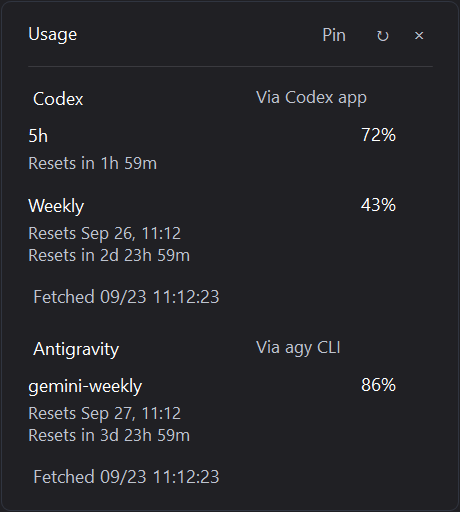
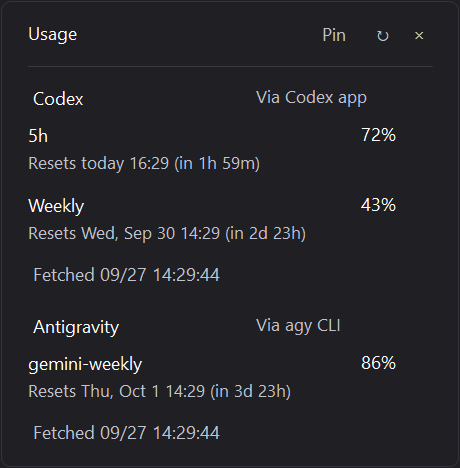
Show reset date, weekday and time left on one line
"4日 4時間 0分" alone was hard to read. Each quota now shows when it
resets (today / tomorrow / date with weekday) followed by the time left.

diff --git a/DetailsForm.cs b/DetailsForm.cs
@@ -163,10 +163,8 @@ internal sealed class DetailsForm : Form
         expanded = value;
         int missing = (codex.Quotas.Count == 0 ? 1 : 0) + (agy.Quotas.Count == 0 ? 1 : 0) + (claude != null && claude.Quotas.Count == 0 ? 1 : 0) + (grok != null && grok.Quotas.Count == 0 ? 1 : 0);
         int count = codex.Quotas.Count + agy.Quotas.Count + (claude?.Quotas.Count ?? 0) + (grok?.Quotas.Count ?? 0);
-        int datedCount = new[] { codex, agy, claude, grok }.Where(r => r != null).Cast<Reading>()
-            .Sum(r => r.Quotas.Count(q => FormatResetDate(q.Reset, DateTimeOffset.Now) != null));
         int expandedHeight = Math.Min(Screen.FromRectangle(Bounds).WorkingArea.Height - 24,
-            Math.Clamp(258 + 70 * count + 22 * datedCount + 20 * missing + (claude == null ? 0 : 50) + (grok == null ? 0 : 50), 300, 720));
+            Math.Clamp(258 + 70 * count + 20 * missing + (claude == null ? 0 : 50) + (grok == null ? 0 : 50), 300, 720));
         target = value ? new Size(460, expandedHeight) : new Size(344, 54);
         if (value) RebuildRows();
         ClientSize = target; ClampPosition();
@@ -232,7 +230,7 @@ internal sealed class DetailsForm : Form
             foreach (var quota in reading.Quotas)
             {
                 var row = new QuotaRow(quota, reading.Stale, color) { Location = new(4, y) };
-                row.Size = new Size(372, row.HasResetDate ? 87 : 65);
+                row.Size = new Size(372, 65);
                 list.Controls.Add(row); y += row.Height + 5;
             }
             if (reading.Quotas.Count > 0)
@@ -300,48 +298,43 @@ internal sealed class DetailsForm : Form
             get { var p = base.CreateParams; p.ExStyle |= 0x02000000; return p; }
         }
     }
-    internal static string FormatCountdown(TimeSpan? remain)
+    // One line per quota: the local reset date with weekday first, then the time left, e.g. "10月3日(土) 18:00 にリセット（あと6日3時間）".
+    internal static string FormatReset(DateTimeOffset? reset, DateTimeOffset now)
     {
-        if (remain == null) return L.T("リセット時刻不明");
-        if (remain <= TimeSpan.Zero) return L.T("リセット時刻経過 · 更新待ち");
-        var t = remain.Value;
-        return t.Days > 0
-            ? L.F("リセットまで {t.Days}日 {t.Hours}時間 {t.Minutes}分", ("t.Days", t.Days), ("t.Hours", t.Hours), ("t.Minutes", t.Minutes))
-            : L.F("リセットまで {t.Hours}時間 {t.Minutes}分", ("t.Hours", t.Hours), ("t.Minutes", t.Minutes));
+        if (reset == null) return L.T("リセット時刻不明");
+        var left = reset.Value - now;
+        if (left <= TimeSpan.Zero) return L.T("リセット時刻経過 · 更新待ち");
+        var at = reset.Value.ToLocalTime();
+        var today = now.ToLocalTime().Date;
+        var ja = System.Globalization.CultureInfo.GetCultureInfo("ja-JP");
+        var en = System.Globalization.CultureInfo.InvariantCulture;
+        string day = at.Date == today ? L.T("今日")
+            : at.Date == today.AddDays(1) ? L.T("明日")
+            : L.English ? at.ToString(at.Year == today.Year ? "ddd, MMM d" : "ddd, MMM d, yyyy", en)
+            : at.ToString(at.Year == today.Year ? "M月d日(ddd)" : "yyyy年M月d日(ddd)", ja);
+        return L.F("{day} {time} にリセット（あと{left}）", ("day", day), ("time", at.ToString("H:mm", en)), ("left", FormatRemaining(left)));
     }
-    internal static string? FormatResetDate(DateTimeOffset? reset, DateTimeOffset now)
-    {
-        if (reset == null || reset <= now) return null;
-        var localReset = reset.Value.ToLocalTime();
-        var localNow = now.ToLocalTime();
-        if (localReset.Date <= localNow.Date) return null;
-        var date = L.English
-            ? localReset.ToString(localReset.Year == localNow.Year ? "MMM d, HH:mm" : "MMM d, yyyy HH:mm", System.Globalization.CultureInfo.InvariantCulture)
-            : localReset.ToString(localReset.Year == localNow.Year ? "M月d日 HH:mm" : "yyyy年M月d日 HH:mm", System.Globalization.CultureInfo.GetCultureInfo("ja-JP"));
-        return L.F("リセット日 {date}", ("date", date));
-    }
+    internal static string FormatRemaining(TimeSpan t) =>
+        t.Days > 0 ? L.F("{d}日{h}時間", ("d", t.Days), ("h", t.Hours))
+        : t.Hours > 0 ? L.F("{h}時間{m}分", ("h", t.Hours), ("m", t.Minutes))
+        : L.F("{m}分", ("m", Math.Max(1, t.Minutes)));
     private sealed class QuotaRow : Control
     {
         private readonly Quota quota;
         private readonly bool stale;
         private readonly Color accent;
-        private string countdown;
-        private string? resetDate;
-        internal bool HasResetDate => resetDate != null;
+        private string resetText;
         internal QuotaRow(Quota quota, bool stale, Color accent)
         {
             this.quota = quota; this.stale = stale; this.accent = accent;
             DoubleBuffered = true;
-            countdown = FormatCountdown(quota.Reset - DateTimeOffset.UtcNow);
-            resetDate = FormatResetDate(quota.Reset, DateTimeOffset.Now);
+            resetText = FormatReset(quota.Reset, DateTimeOffset.Now);
         }
         internal void RefreshCountdown()
         {
-            var next = FormatCountdown(quota.Reset - DateTimeOffset.UtcNow);
-            var nextDate = FormatResetDate(quota.Reset, DateTimeOffset.Now);
-            if (next == countdown && nextDate == resetDate) return;
-            countdown = next;
-            resetDate = nextDate;
+            var next = FormatReset(quota.Reset, DateTimeOffset.Now);
+            if (next == resetText) return;
+            resetText = next;
             Invalidate(new Rectangle(0, 28, Width, Height - 28));
         }
         protected override void OnPaint(PaintEventArgs e)
@@ -351,8 +344,7 @@ internal sealed class DetailsForm : Form
             DrawText(g, label, 4, 1, 12, Color.White);
             using var valueFont = new Font("Segoe UI", 12 * DeviceDpi / 96f, FontStyle.Regular, GraphicsUnit.Pixel);
             TextRenderer.DrawText(g, $"{quota.Remaining:0.#}%", valueFont, new Rectangle(284, 0, Width - 284, 26), stale ? Muted : accent, TextFormatFlags.Right | TextFormatFlags.NoPadding | TextFormatFlags.SingleLine);
-            if (resetDate != null) DrawText(g, resetDate, 4, 30, 11, Muted);
-            DrawText(g, countdown, 4, resetDate == null ? 30 : 52, 11, Muted);
+            DrawText(g, resetText, 4, 30, 11, Muted);
         }
     }
 }

diff --git a/Verification.cs b/Verification.cs
@@ -18,22 +18,15 @@ internal static class Verification
             Check(display.TaskbarTop == "Claude Code" && display.TaskbarBottom == "Codex", "Selecting the other row swaps providers", results);
             display.SelectTaskbarProvider(false, "Grok", persist: false);
             Check(display.TaskbarTop == "Claude Code" && display.TaskbarBottom == "Grok", "Taskbar row can show Grok", results);
-            Check(DetailsForm.FormatCountdown(TimeSpan.FromHours(100)) == "リセットまで 4日 4時間 0分", "Countdown 100 hours uses days", results);
-            Check(DetailsForm.FormatCountdown(TimeSpan.FromHours(24)) == "リセットまで 1日 0時間 0分", "Countdown day boundary", results);
-            Check(DetailsForm.FormatCountdown(TimeSpan.FromMinutes(1439)) == "リセットまで 23時間 59分", "Countdown below one day", results);
-            Check(DetailsForm.FormatCountdown(null) == "リセット時刻不明" && DetailsForm.FormatCountdown(TimeSpan.Zero) == "リセット時刻経過 · 更新待ち", "Countdown missing and expired", results);
-            var late = DateTime.Today.AddHours(23);
-            var nearMidnight = new DateTimeOffset(late, TimeZoneInfo.Local.GetUtcOffset(late));
-            var nextDayReset = nearMidnight.AddHours(2);
-            Check(DetailsForm.FormatResetDate(nextDayReset, nearMidnight)?.Contains(nextDayReset.ToLocalTime().ToString("M月d日")) == true,
-                "Reset date appears when a short countdown crosses midnight", results);
-            Check(DetailsForm.FormatResetDate(nearMidnight.AddMinutes(30), nearMidnight) == null &&
-                DetailsForm.FormatResetDate(null, nearMidnight) == null,
-                "Same-day and unknown resets keep the compact layout", results);
+            var noon = new DateTimeOffset(2026, 9, 27, 12, 0, 0, TimeZoneInfo.Local.GetUtcOffset(new DateTime(2026, 9, 27, 12, 0, 0)));
+            Check(DetailsForm.FormatReset(noon.AddHours(4).AddMinutes(7), noon) == "今日 16:07 にリセット（あと4時間7分）", "Same-day reset shows today and time left", results);
+            Check(DetailsForm.FormatReset(noon.AddHours(21), noon) == "明日 9:00 にリセット（あと21時間0分）", "Next-day reset shows tomorrow", results);
+            Check(DetailsForm.FormatReset(noon.AddDays(6).AddHours(6), noon) == "10月3日(土) 18:00 にリセット（あと6日6時間）", "Later reset shows date and weekday", results);
+            Check(DetailsForm.FormatReset(noon.AddSeconds(20), noon) == "今日 12:00 にリセット（あと1分）", "Under a minute never shows zero", results);
+            Check(DetailsForm.FormatReset(null, noon) == "リセット時刻不明" && DetailsForm.FormatReset(noon, noon) == "リセット時刻経過 · 更新待ち", "Reset missing and expired", results);
             L.English = true;
-            Check(DetailsForm.FormatCountdown(TimeSpan.FromHours(100)) == "Resets in 4d 4h 0m", "English duration", results);
-            Check(DetailsForm.FormatResetDate(nextDayReset, nearMidnight)?.StartsWith("Resets ") == true,
-                "English reset date", results);
+            Check(DetailsForm.FormatReset(noon.AddDays(6).AddHours(6), noon) == "Resets Sat, Oct 3 18:00 (in 6d 6h)", "English reset date", results);
+            Check(DetailsForm.FormatReset(noon.AddHours(4).AddMinutes(7), noon) == "Resets today 16:07 (in 4h 7m)", "English same-day reset", results);
             Check(L.F("取得 {age}", ("age", "09/22 03:00:00")) == "Fetched 09/22 03:00:00", "English timestamp", results);
             Check(L.QuotaLabel("週間") == "Weekly" && L.T("パネルを開く") == "Open panel" &&
                 L.T("Codexアプリ経由") == "Via Codex app" &&

diff --git a/GrokUsage.cs b/GrokUsage.cs
@@ -39,7 +39,7 @@ internal static class GrokUsage
         var stderr = proc.StandardError.ReadToEndAsync();
         try
         {
-            await proc.StandardInput.WriteLineAsync("""{"jsonrpc":"2.0","id":1,"method":"initialize","params":{"protocolVersion":1,"clientCapabilities":{},"clientInfo":{"name":"CodexLimitViewer","version":"0.1.5"}}}""");
+            await proc.StandardInput.WriteLineAsync("""{"jsonrpc":"2.0","id":1,"method":"initialize","params":{"protocolVersion":1,"clientCapabilities":{},"clientInfo":{"name":"CodexLimitViewer","version":"0.1.6"}}}""");
             await proc.StandardInput.WriteLineAsync("""{"jsonrpc":"2.0","id":2,"method":"_x.ai/billing","params":{}}""");
             await proc.StandardInput.FlushAsync(timeout.Token);
             while (true)

diff --git a/Providers.cs b/Providers.cs
@@ -25,7 +25,7 @@ internal static class Providers
         var errors = proc.StandardError.ReadToEndAsync();
         try
         {
-            await proc.StandardInput.WriteLineAsync("""{"id":1,"method":"initialize","params":{"clientInfo":{"name":"codex-limit-viewer","version":"0.1.5"}}}""");
+            await proc.StandardInput.WriteLineAsync("""{"id":1,"method":"initialize","params":{"clientInfo":{"name":"codex-limit-viewer","version":"0.1.6"}}}""");
             await ReadResult(proc, 1, ct);
             await proc.StandardInput.WriteLineAsync("""{"method":"initialized","params":{}}""");
             await proc.StandardInput.WriteLineAsync("""{"id":2,"method":"account/rateLimits/read"}""");

diff --git a/README.en.md b/README.en.md
@@ -12,7 +12,7 @@ A sleek, lightweight Windows 11 system tray application that continuously displa
 
 - **Always Visible**: Glance at your remaining quota percentage (lowest bucket) directly in your Windows 11 notification area without interrupting your work.
 - **Choose Two Rows**: Select Codex, Antigravity, Claude Code, or Grok for the top and bottom rows from the right-click menu. Selecting an item already in the other row automatically swaps them.
-- **Details on Hover**: Off by default. When enabled, hovering displays per-bucket quota, reset countdowns (days, hours, minutes), reset dates for periods crossing into later days, and the last updated timestamp in a smooth fade popup. It fades out as soon as the pointer leaves both the display and popup. When disabled, a centered tooltip shows the app name. The details popup lists the services shown in the taskbar rows first.
+- **Details on Hover**: Off by default. When enabled, hovering displays per-bucket quota, the reset date and time (today, tomorrow, or weekday and date) with the time left, and the last updated timestamp in a smooth fade popup. It fades out as soon as the pointer leaves both the display and popup. When disabled, a centered tooltip shows the app name. The details popup lists the services shown in the taskbar rows first.
 - **Multi-Service Integration**: Polls Codex (the desktop app's bundled binary or standalone Codex CLI), Antigravity (`agy`), and the official Grok Build CLI every 60 seconds. Claude quota is fetched every 60 seconds using your [Claude Code CLI](https://code.claude.com/docs/en/setup) sign-in. The app never stores or transmits credentials, except for sending the Claude sign-in token to Anthropic’s API.
 - **Grok Weekly Quota**: Displays the remaining weekly quota percentage and reset time from the official Grok Build CLI (`grok.exe`) in the details popup. Choose Grok for either taskbar row in the right-click menu.
 - **Graceful Error Handling**: If a fetch fails, previous values remain visible in gray text rather than disappearing.
@@ -89,4 +89,4 @@ dotnet publish -c Release --self-contained true -p:PublishSingleFile=true -o dis
 - Unsigned pre-release software tested on Windows 11 at 150% DPI. Mixed-DPI configurations and reboot startup behavior are unverified.
 - License: [MIT License](LICENSE)
 - Codex with GPT-6 Sol (reasoning effort: Medium) was used for development. The Japanese and English publication text was proofread with Gemini 3.8 Flash (High) (reasoning effort: High).
-- Claude Code with Claude Opus 5.5 (reasoning effort: Medium) was used for the v0.1.3–v0.1.5 Claude integration fixes, automatic quota fetching, details ordering, the app icon, and release work.
+- Claude Code with Claude Opus 5.5 (reasoning effort: Medium) was used for the v0.1.3–v0.1.6 Claude integration fixes, automatic quota fetching, details ordering and reset-time display, the app icon, and release work.
